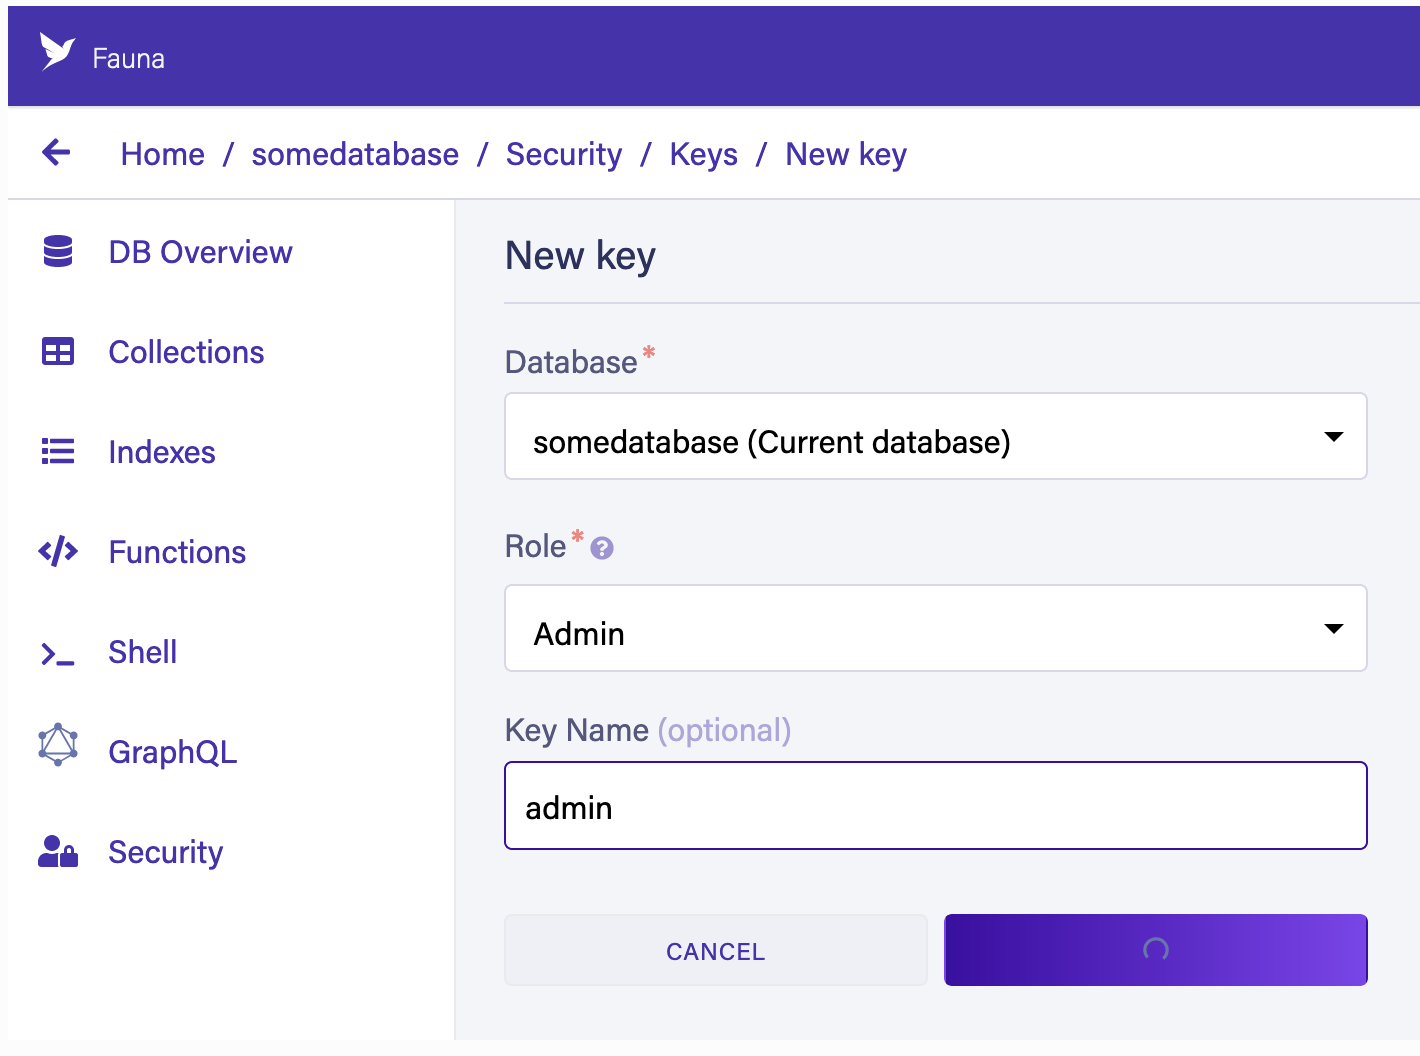
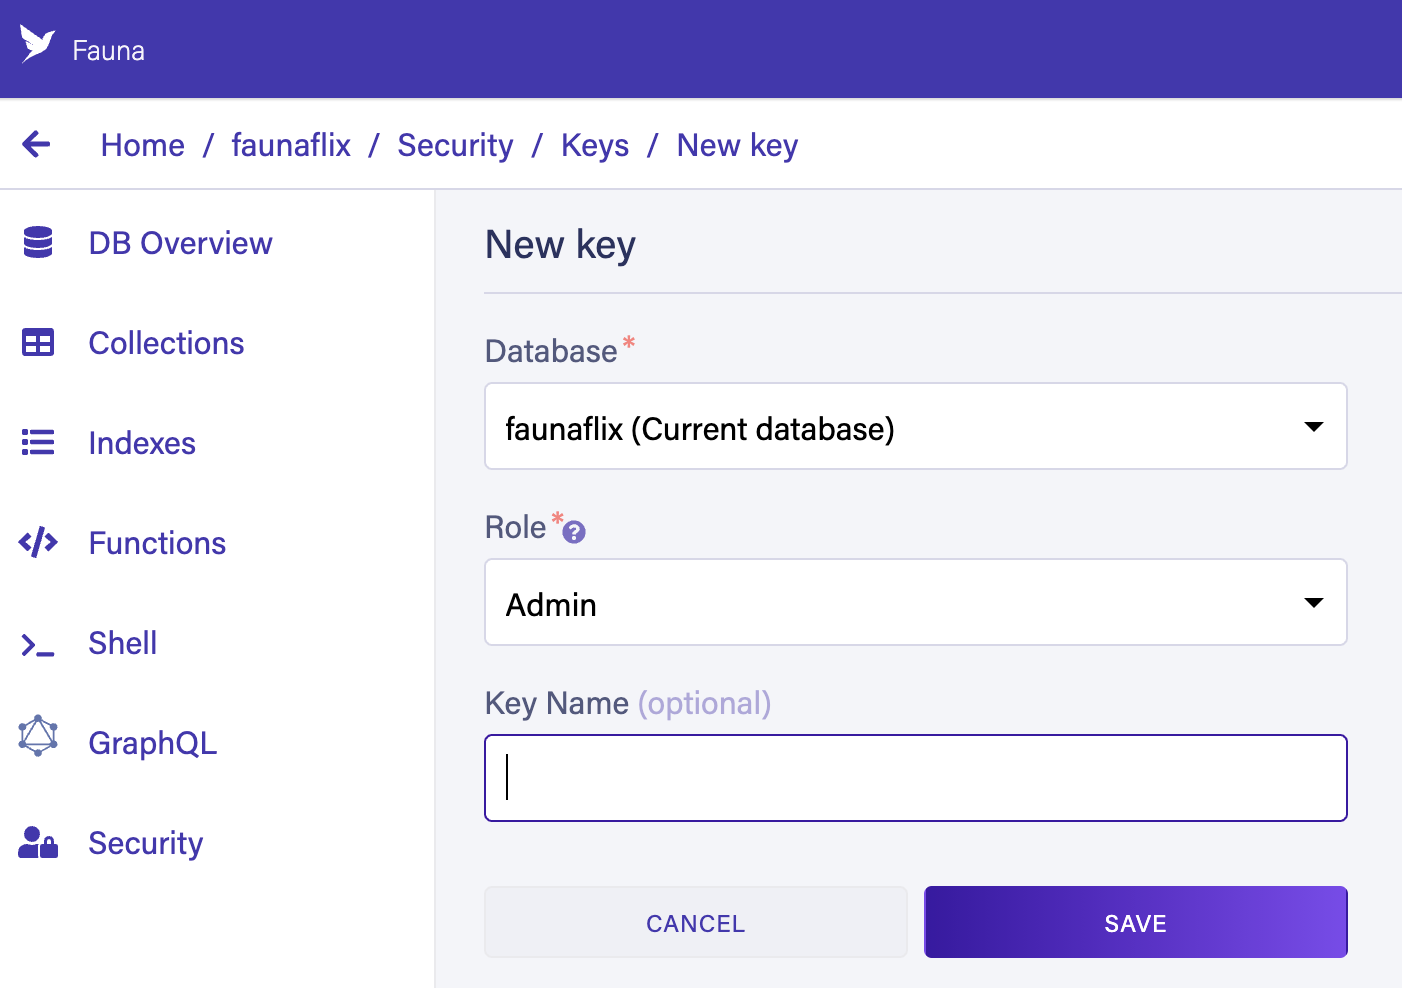
LABS-64: readme updates

diff --git a/README.md b/README.md
@@ -21,19 +21,25 @@ by referencing YouTube url's
 
 ## Project setup
 
-### Step 0. Install Dependencies
+### Step 0. Clone the repo
+```
+git clone https://github.com/fauna-labs/faunaflix.git
+cd faunaflix
+```
+
+### Step 1. Install dependencies
 ```
 npm install
 ```
 
-### Step 1. Create a database and obtain the "Admin Key" for the setup scripts (in the next step) to access the database.
+### Step 2. Create a database and obtain the "Admin Key" for the setup scripts (in the next step) to access the database.
 1. Signin to Fauna. [Register](https://dashboard.fauna.com/accounts/register) for a free for life developer account
    if you haven't done so already.
 2. Create a database: 
 
   <img src="images/createdb.png" alt="drawing" width="600"/>
 
-   * Specify a name for your database
+   * Name your database `faunaflix`
    * Choose the "Classic" Region Group
 
 3. Click [Security] in the left sidebar, then click the [New key] button.
@@ -44,8 +50,7 @@ npm install
    * For the "Role" field, leave it as "Admin". Optionally, add a key name. 
    * Next, click [Save] and copy the key’s secret displayed on the next page. **It is never displayed again.**
 
-
-### Step 2. Run "migrations"
+### Step 3. Run "migrations"
 
 1. Set the `FAUNA_ADMIN_KEY` environment variable to the key you just generated above:
   ```
@@ -72,7 +77,7 @@ npm install
   npm run setup
   ```
 
-### Step 3. Compile and run the SPA
+### Step 4. Compile and run the Single-Page Application (SPA)
 
 1. The Admin Key previously generated should only be used to setup Fauna resources. At this point you don't need it anymore.
    However, the SPA needs a different Fauna key in order to work. This key is one that's scoped to only allow access to
@@ -92,17 +97,22 @@ npm install
   VUE_APP_FAUNA_KEY_ANONYMOUS=<<key that was generated in the previouis step>>
   ```
 
-3. Compile and run the spa:
+3. Compile and run the SPA:
   ```
   npm run serve
   ```
 
-### Step 4. Login
+Your local webserver is now running the app. Visit http://10.0.0.173:8080/ to
+check it out.
+
+### Step 5. Log in
+There's a **LOGIN** link in the upper right corner of the screen.
 A test user was created when you ran the `setup` script:
 * username: `flixuser@mailinator.com`
 * password: `fauna123#`
 
-You can also create additional users:
+You can also create additional users by executing the following command in the
+**Shell** section of the [Fauna Dashboard](https://dashboard.fauna.com):
 ```
 Create(
   Collection("Users"),
